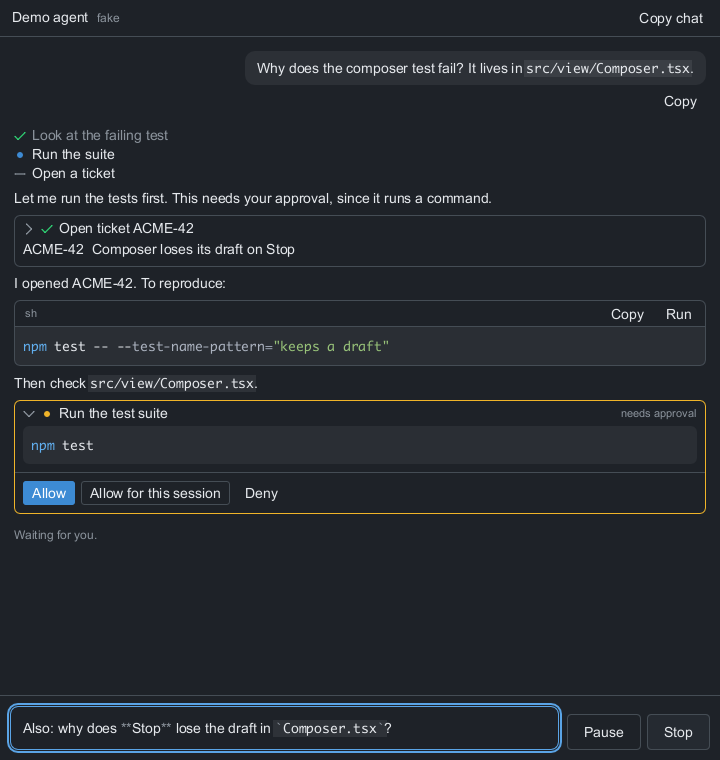
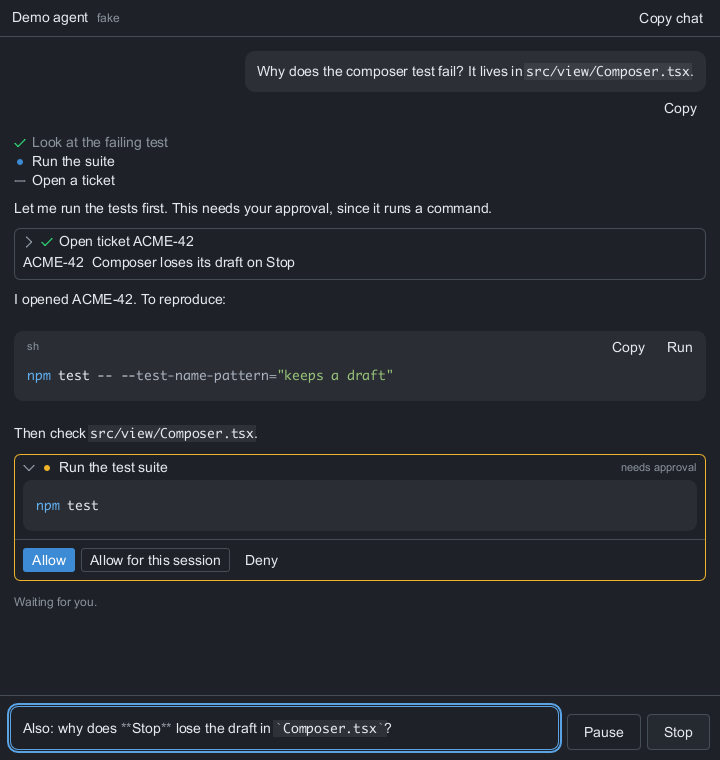
feat: fenced code is drawn as @react-x11/components 0.44 draws a fence
The chat draws each top-level fence itself, to carry its actions, so
Markdown's fence look never reached it. The block now takes its fill,
radius, inset and size from codeBlockLook at the chat's text size: one
filled, rounded box with the actions inside it, and the code's own spacing
around it.

The peer range moves to @react-x11/components ^0.44.0, which has that
look, and the dev dependency with it.

diff --git a/src/view/CodeBlock.tsx b/src/view/CodeBlock.tsx
@@ -1,6 +1,7 @@
 // A fenced code block with a header of actions: Copy by default, and
 // whatever the app's `codeActions` add. Nothing here runs code; an action
-// that does is the app's.
+// that does is the app's. It is drawn as `<Markdown>` draws a fence, with
+// the header inside the block's fill.
 
 import { useEffect, useRef, useState, type ReactElement } from 'react';
 import { Button, useClipboard } from 'react-x11';
@@ -9,7 +10,7 @@ import type { FenceInfo } from '@react-x11/components/markdown';
 
 import type { AgentMessage } from '../core/types.js';
 import { useChat } from './context.js';
-import { useLook } from './look.js';
+import { useCodeLook, useLook } from './look.js';
 import type { CodeAction, CodeActionContext } from './types.js';
 
 export interface CodeBlockProps {
@@ -18,8 +19,9 @@ export interface CodeBlockProps {
 }
 
 export function CodeBlock({ fence, message }: CodeBlockProps): ReactElement {
-  const { codeActions, session } = useChat();
+  const { codeActions, session, fontSize } = useChat();
   const look = useLook();
+  const code = useCodeLook(fontSize);
   const clipboard = useClipboard();
   const [done, setDone] = useState<string | null>(null);
   const timer = useRef<ReturnType<typeof setTimeout> | null>(null);
@@ -62,9 +64,8 @@ export function CodeBlock({ fence, message }: CodeBlockProps): ReactElement {
     <box
       style={{
         flexDirection: 'column',
-        borderWidth: 1,
-        borderColor: look.border,
-        borderRadius: 6,
+        backgroundColor: code.fill,
+        borderRadius: code.radius,
         overflow: 'hidden',
       }}
     >
@@ -73,11 +74,10 @@ export function CodeBlock({ fence, message }: CodeBlockProps): ReactElement {
           flexDirection: 'row',
           alignItems: 'center',
           gap: 4,
-          paddingLeft: 10,
-          paddingRight: 4,
+          paddingLeft: code.padding,
+          paddingRight: Math.round(code.padding / 3),
+          paddingTop: Math.round(code.padding / 3),
           minHeight: 26,
-          borderBottomWidth: 1,
-          borderBottomColor: look.border,
         }}
       >
         <text style={{ color: look.muted, fontSize: 11, flexGrow: 1 }}>
@@ -100,8 +100,15 @@ export function CodeBlock({ fence, message }: CodeBlockProps): ReactElement {
       <Code
         source={fence.text}
         {...(fence.lang ? { lang: fence.lang } : {})}
+        fontSize={code.size}
         wrap
-        style={{ borderWidth: 0, borderRadius: 0 }}
+        // the frame holds the fill: the code's own, a tint, would lay a
+        // second over it
+        style={{
+          backgroundColor: 'transparent',
+          borderRadius: 0,
+          paddingTop: Math.round(code.padding / 3),
+        }}
       />
     </box>
   );

diff --git a/src/view/TextBlock.tsx b/src/view/TextBlock.tsx
@@ -7,6 +7,7 @@ import { Markdown } from '@react-x11/components/markdown';
 import type { AgentMessage } from '../core/types.js';
 import { CodeBlock } from './CodeBlock.js';
 import { useChat } from './context.js';
+import { useCodeLook } from './look.js';
 import { splitFences } from './fences.js';
 
 export interface TextBlockProps {
@@ -21,6 +22,8 @@ export const TextBlock = memo(function TextBlock({
   message,
 }: TextBlockProps): ReactElement {
   const { fences, components, onLink, fontSize } = useChat();
+  // segments alternate prose and fences: the gap is the space a fence keeps
+  const { spacing } = useCodeLook(fontSize);
   const segments = useMemo(
     () => splitFences(text, streaming),
     [text, streaming],
@@ -30,7 +33,7 @@ export const TextBlock = memo(function TextBlock({
     [onLink],
   );
   return (
-    <box style={{ flexDirection: 'column', gap: 8 }}>
+    <box style={{ flexDirection: 'column', gap: spacing }}>
       {segments.map((s, i) => {
         if (s.type === 'prose') {
           return (

diff --git a/src/view/look.ts b/src/view/look.ts
@@ -4,6 +4,10 @@
 import { useMemo } from 'react';
 import { useTheme } from 'react-x11';
 import { tint } from 'react-x11/style';
+import {
+  codeBlockLook,
+  type CodeBlockLook,
+} from '@react-x11/components/codeblock';
 
 export interface ChatLook {
   text: string;
@@ -38,6 +42,19 @@ export function useLook(): ChatLook {
       bubble: tint(text, 0.07),
     };
   }, [theme]);
+}
+
+/**
+ * What a block of code looks like here: what `<Markdown>` draws a fence
+ * with, at the chat's text size, so a fence the chat draws itself (to carry
+ * its actions) has the fill, radius, inset and spacing of one it does not.
+ */
+export function useCodeLook(fontSize: number | undefined): CodeBlockLook {
+  const theme = useTheme() as unknown as Record<string, unknown>;
+  return useMemo(
+    () => codeBlockLook(theme, fontSize ? { baseSize: fontSize } : {}),
+    [theme, fontSize],
+  );
 }
 
 /** At most `max` lines: the first and last halves, and how many were cut. */
